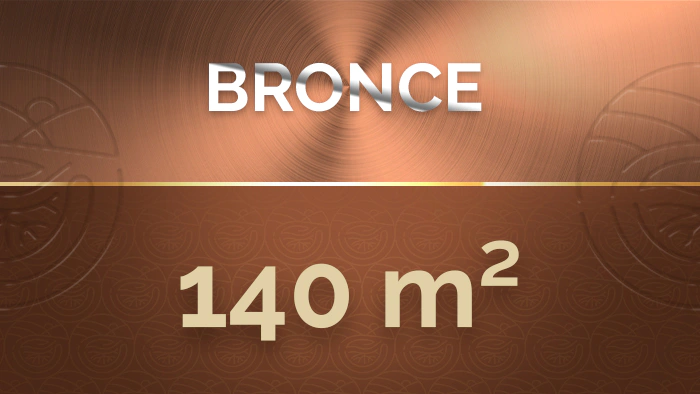
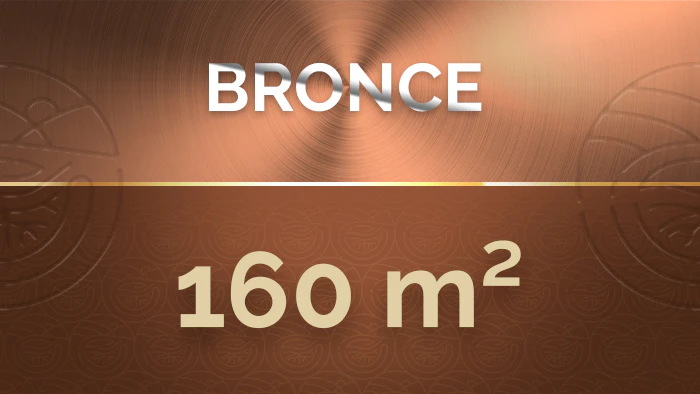
update products data

diff --git a/includes/idiomas/esp.php b/includes/idiomas/esp.php
@@ -52,7 +52,7 @@ $Hero_02 = "Terrenos con plusvalía real desde $250 USD dentro de una comunidad 
 $Mission_title = "Misión";
 $Mission_text = "Abrir las puertas de la inversión inmobiliaria para todas las personas, ofreciendo terrenos con plusvalía y un modelo de ingresos que transforma vidas. Educamos para que cada miembro tome mejores decisiones y construya libertad financiera.";
 $Vission_title = "Visión";
-$Vission_text = "Convertirnos en la comunidad que democratizó el acceso a terrenos con vista al mar, impulsando un movimiento sostenible y accesible en toda Latinoamérica.";
+$Vission_text = "Convertirnos en la comunidad que democratizó el acceso a terrenos con vistas inigualables impulsando un movimiento sostenible y accesible en toda Latinoamérica.";
 $Values_title = "Valores";
 $Values_1 = "Inclusión";
 $Values_2 = "Sostenibilidad";

diff --git a/includes/idiomas/eng.php b/includes/idiomas/eng.php
@@ -52,7 +52,7 @@ $Hero_02 = "Land with real appreciation from $250 USD within a global community 
 $Mission_title = "Mission";
 $Mission_text = "Open the doors of real estate investment to everyone, offering land with appreciation and an income model that transforms lives. We educate so every member makes better decisions and builds financial freedom.";
 $Vission_title = "Vision";
-$Vission_text = "Become the community that democratized access to ocean-view land, driving a sustainable and accessible movement throughout Latin America.";
+$Vission_text = "Become the community that democratized access to amaizing lands, driving a sustainable and accessible movement throughout Latin America.";
 $Values_title = "Values";
 $Values_1 = "Inclusion";
 $Values_2 = "Sustainability";

diff --git a/includes/info.php b/includes/info.php
@@ -22,15 +22,15 @@ $Company_Fullname = "$Company_Name GLOBAL";
 
 $Investments = array(
   'bronze' => [
-    'area' => 140,
+    'area' => 160,
     'amount' => 250
   ],
   'silver' => [
-    'area' => 180,
+    'area' => 200,
     'amount' => 550
   ],
   'gold' => [
-    'area' => 200,
+    'area' => 220,
     'amount' => 1500
   ],
   'diamond' => [
